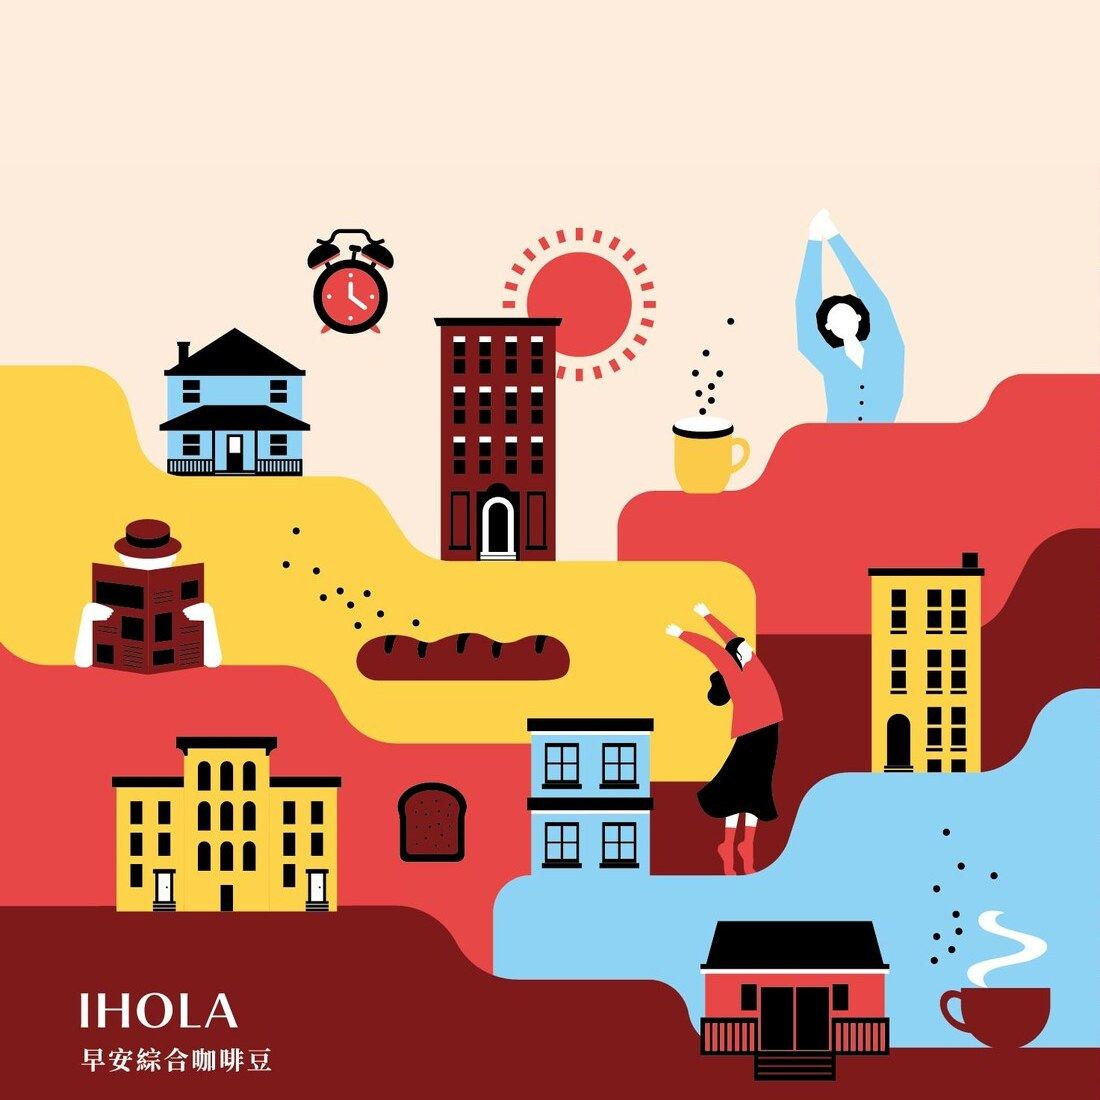
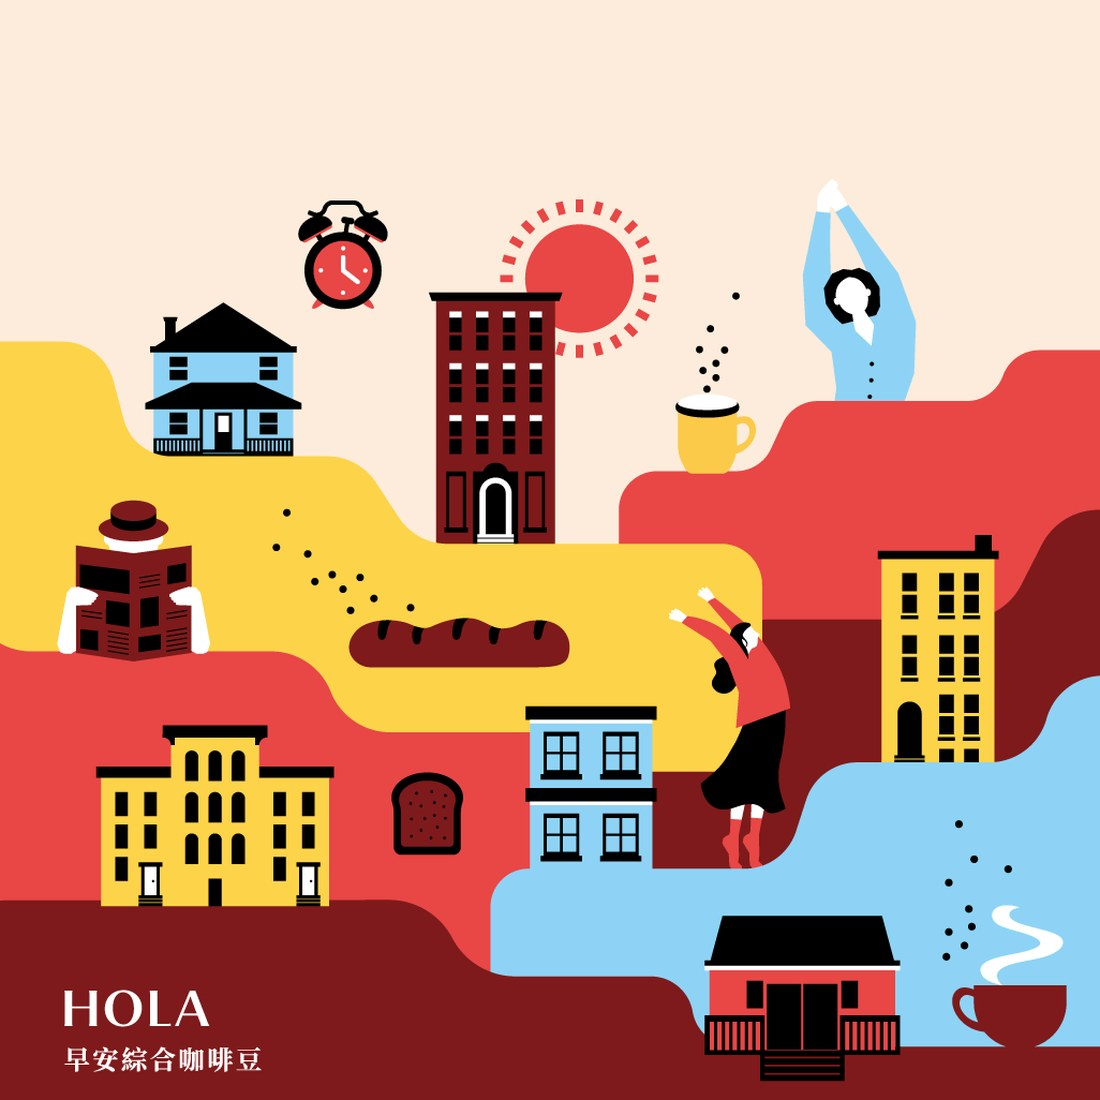
Update site content

diff --git a/beans/ihola.html b/beans/ihola.html
@@ -51,7 +51,7 @@ body{font-family:var(--f);color:var(--ink);background:var(--white);-webkit-font-
 /* HERO */
 .hero{display:grid;grid-template-columns:1fr 1fr;gap:6vw;align-items:center;padding:40px 0 90px}
 .hero-art{background:var(--mist);padding:7%;border:1px solid var(--fog)}
-.hero-art img{width:100%;display:block;aspect-ratio:900/1042;object-fit:cover}
+.hero-art img{width:100%;display:block;aspect-ratio:1000/1177;object-fit:cover}
 /* 焦點變色：在畫面中彩色、滑開變黑白（桌機＋手機） */
 .lit-media{filter:grayscale(1);transition:filter .6s ease}
 .lit-media.lit{filter:grayscale(0)}
@@ -85,9 +85,9 @@ body{font-family:var(--f);color:var(--ink);background:var(--white);-webkit-font-
 .artwork .base{filter:grayscale(1);transition:filter .5s ease}
 .art-color{position:absolute;inset:0;height:100%;object-fit:cover;opacity:0;transition:opacity .5s ease;pointer-events:none;z-index:2;-webkit-mask-repeat:no-repeat;mask-repeat:no-repeat}
 .artwork.g-active .art-color{opacity:1}
-.artwork.g-wake .art-color{-webkit-mask-image:radial-gradient(circle at 32% 26%,#000 9%,transparent 16%),radial-gradient(circle at 53% 27%,#000 10%,transparent 18%),radial-gradient(circle at 77% 27%,#000 10%,transparent 18%),radial-gradient(circle at 65% 62%,#000 10%,transparent 18%);mask-image:radial-gradient(circle at 32% 26%,#000 9%,transparent 16%),radial-gradient(circle at 53% 27%,#000 10%,transparent 18%),radial-gradient(circle at 77% 27%,#000 10%,transparent 18%),radial-gradient(circle at 65% 62%,#000 10%,transparent 18%)}
-.artwork.g-breakfast .art-color{-webkit-mask-image:radial-gradient(circle at 43% 55%,#000 12%,transparent 20%),radial-gradient(circle at 36% 70%,#000 6%,transparent 12%),radial-gradient(circle at 64% 37%,#000 8%,transparent 15%),radial-gradient(circle at 88% 85%,#000 8%,transparent 15%);mask-image:radial-gradient(circle at 43% 55%,#000 12%,transparent 20%),radial-gradient(circle at 36% 70%,#000 6%,transparent 12%),radial-gradient(circle at 64% 37%,#000 8%,transparent 15%),radial-gradient(circle at 88% 85%,#000 8%,transparent 15%)}
-.artwork.g-city .art-color{-webkit-mask-image:radial-gradient(circle at 21% 34%,#000 11%,transparent 19%),radial-gradient(circle at 45% 36%,#000 10%,transparent 18%),radial-gradient(circle at 14% 49%,#000 9%,transparent 16%),radial-gradient(circle at 20% 68%,#000 12%,transparent 20%),radial-gradient(circle at 84% 56%,#000 9%,transparent 16%),radial-gradient(circle at 51% 67%,#000 10%,transparent 18%),radial-gradient(circle at 66% 82%,#000 10%,transparent 18%);mask-image:radial-gradient(circle at 21% 34%,#000 11%,transparent 19%),radial-gradient(circle at 45% 36%,#000 10%,transparent 18%),radial-gradient(circle at 14% 49%,#000 9%,transparent 16%),radial-gradient(circle at 20% 68%,#000 12%,transparent 20%),radial-gradient(circle at 84% 56%,#000 9%,transparent 16%),radial-gradient(circle at 51% 67%,#000 10%,transparent 18%),radial-gradient(circle at 66% 82%,#000 10%,transparent 18%)}
+.artwork.g-wake .art-color{-webkit-mask-image:radial-gradient(circle at 31% 24%,#000 8%,transparent 14%),radial-gradient(circle at 52% 25%,#000 9%,transparent 16%),radial-gradient(circle at 78% 26%,#000 10%,transparent 17%),radial-gradient(circle at 67% 62%,#000 9%,transparent 16%);mask-image:radial-gradient(circle at 31% 24%,#000 8%,transparent 14%),radial-gradient(circle at 52% 25%,#000 9%,transparent 16%),radial-gradient(circle at 78% 26%,#000 10%,transparent 17%),radial-gradient(circle at 67% 62%,#000 9%,transparent 16%)}
+.artwork.g-breakfast .art-color{-webkit-mask-image:radial-gradient(circle at 43% 57%,#000 12%,transparent 20%),radial-gradient(circle at 38% 74%,#000 6%,transparent 11%),radial-gradient(circle at 64% 37%,#000 8%,transparent 14%),radial-gradient(circle at 90% 92%,#000 7%,transparent 12%);mask-image:radial-gradient(circle at 43% 57%,#000 12%,transparent 20%),radial-gradient(circle at 38% 74%,#000 6%,transparent 11%),radial-gradient(circle at 64% 37%,#000 8%,transparent 14%),radial-gradient(circle at 90% 92%,#000 7%,transparent 12%)}
+.artwork.g-city .art-color{-webkit-mask-image:radial-gradient(circle at 20% 33%,#000 11%,transparent 18%),radial-gradient(circle at 44% 36%,#000 10%,transparent 17%),radial-gradient(circle at 13% 53%,#000 8%,transparent 14%),radial-gradient(circle at 20% 72%,#000 12%,transparent 19%),radial-gradient(circle at 83% 58%,#000 9%,transparent 15%),radial-gradient(circle at 53% 70%,#000 10%,transparent 16%),radial-gradient(circle at 72% 87%,#000 9%,transparent 15%);mask-image:radial-gradient(circle at 20% 33%,#000 11%,transparent 18%),radial-gradient(circle at 44% 36%,#000 10%,transparent 17%),radial-gradient(circle at 13% 53%,#000 8%,transparent 14%),radial-gradient(circle at 20% 72%,#000 12%,transparent 19%),radial-gradient(circle at 83% 58%,#000 9%,transparent 15%),radial-gradient(circle at 53% 70%,#000 10%,transparent 16%),radial-gradient(circle at 72% 87%,#000 9%,transparent 15%)}
 .spot{position:absolute;transform:translate(-50%,-50%) scale(.82);border-radius:50%;background:radial-gradient(circle,rgba(255,251,238,.98) 0%,rgba(255,236,180,.55) 26%,rgba(255,232,170,.16) 50%,rgba(255,232,170,0) 70%);opacity:0;transition:opacity .55s ease,transform .55s ease;mix-blend-mode:screen;pointer-events:none;z-index:3;filter:blur(1px)}
 .artwork.g-wake .spot[data-g="wake"],.artwork.g-breakfast .spot[data-g="breakfast"],.artwork.g-city .spot[data-g="city"]{opacity:1;transform:translate(-50%,-50%) scale(1)}
 .art-essence{display:grid;grid-template-columns:repeat(3,1fr);gap:32px;margin-top:36px}
@@ -232,7 +232,7 @@ body{font-family:var(--f);color:var(--ink);background:var(--white);-webkit-font-
       </div>
     </div>
     <div class="hero-art" id="heroArt">
-      <img class="lit-media" src="../img/ihola-hero.jpg" alt="早安 HOLA 主視覺">
+      <img class="lit-media" src="../img/ihola-main.jpg" alt="早安 HOLA 咖啡主視覺">
     </div>
   </header>
 </div>
@@ -292,21 +292,21 @@ body{font-family:var(--f);color:var(--ink);background:var(--white);-webkit-font-
     <figure class="artwork">
       <img class="base" src="../img/ihola-hero-sq.jpg" alt="早安 HOLA 主視覺設計">
       <img class="art-color" src="../img/ihola-hero-sq.jpg" alt="" aria-hidden="true">
-      <span class="spot" data-g="wake" style="left:32%;top:26%;width:20%;height:20%"></span>
-      <span class="spot" data-g="wake" style="left:53%;top:27%;width:22%;height:22%"></span>
-      <span class="spot" data-g="wake" style="left:77%;top:27%;width:22%;height:24%"></span>
-      <span class="spot" data-g="wake" style="left:65%;top:62%;width:22%;height:24%"></span>
-      <span class="spot" data-g="breakfast" style="left:43%;top:55%;width:28%;height:18%"></span>
-      <span class="spot" data-g="breakfast" style="left:36%;top:70%;width:14%;height:14%"></span>
-      <span class="spot" data-g="breakfast" style="left:64%;top:37%;width:17%;height:18%"></span>
-      <span class="spot" data-g="breakfast" style="left:88%;top:85%;width:17%;height:17%"></span>
-      <span class="spot" data-g="city" style="left:21%;top:34%;width:24%;height:22%"></span>
-      <span class="spot" data-g="city" style="left:45%;top:36%;width:22%;height:24%"></span>
-      <span class="spot" data-g="city" style="left:14%;top:49%;width:20%;height:20%"></span>
-      <span class="spot" data-g="city" style="left:20%;top:68%;width:26%;height:24%"></span>
-      <span class="spot" data-g="city" style="left:84%;top:56%;width:20%;height:22%"></span>
-      <span class="spot" data-g="city" style="left:51%;top:67%;width:22%;height:22%"></span>
-      <span class="spot" data-g="city" style="left:66%;top:82%;width:22%;height:20%"></span>
+      <span class="spot" data-g="wake" style="left:31%;top:24%;width:16%;height:16%"></span>
+      <span class="spot" data-g="wake" style="left:52%;top:25%;width:18%;height:18%"></span>
+      <span class="spot" data-g="wake" style="left:78%;top:26%;width:20%;height:20%"></span>
+      <span class="spot" data-g="wake" style="left:67%;top:62%;width:18%;height:18%"></span>
+      <span class="spot" data-g="breakfast" style="left:43%;top:57%;width:26%;height:26%"></span>
+      <span class="spot" data-g="breakfast" style="left:38%;top:74%;width:13%;height:13%"></span>
+      <span class="spot" data-g="breakfast" style="left:64%;top:37%;width:16%;height:16%"></span>
+      <span class="spot" data-g="breakfast" style="left:90%;top:92%;width:14%;height:14%"></span>
+      <span class="spot" data-g="city" style="left:20%;top:33%;width:22%;height:22%"></span>
+      <span class="spot" data-g="city" style="left:44%;top:36%;width:20%;height:20%"></span>
+      <span class="spot" data-g="city" style="left:13%;top:53%;width:16%;height:16%"></span>
+      <span class="spot" data-g="city" style="left:20%;top:72%;width:24%;height:24%"></span>
+      <span class="spot" data-g="city" style="left:83%;top:58%;width:18%;height:18%"></span>
+      <span class="spot" data-g="city" style="left:53%;top:70%;width:20%;height:20%"></span>
+      <span class="spot" data-g="city" style="left:72%;top:87%;width:18%;height:18%"></span>
     </figure>
     <div class="art-essence">
       <div data-g="wake"><h4>清晨甦醒</h4><p>鬧鐘、帶光芒的紅日與伸展、跳躍的身影——天光微亮時被喚醒、充滿活力的清晨時刻。</p></div>